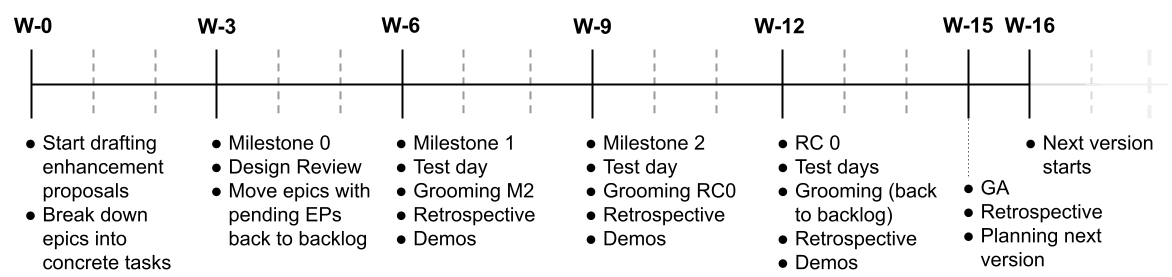
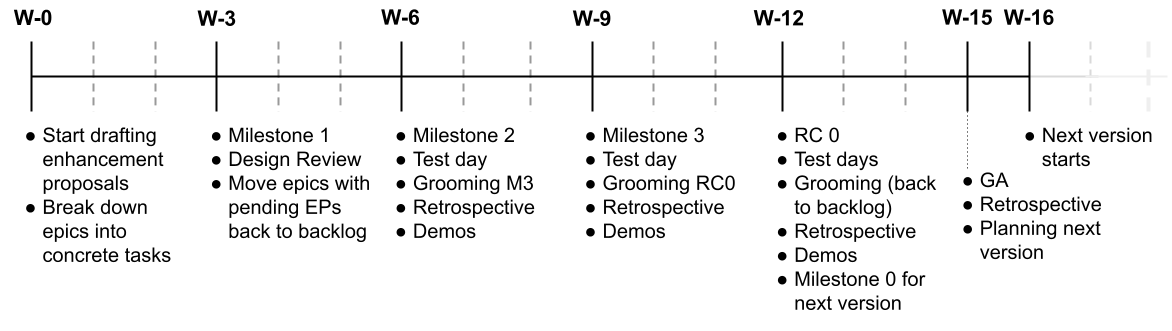
Update planning process
Reflate some changes in the planning meeting and the work with the backlog board.
Update the release timeline image.

Fixes #1043

diff --git a/src/content/development/contribution-guide/_index.en.md b/src/content/development/contribution-guide/_index.en.md
@@ -16,13 +16,13 @@ projects.
 ### Backlog Board
 
 [The backlog board] hosts issues, bugs and features which are not a part of a particular release board. While each issue is opened in
-its corresponding repository, this board gives an aggregated view of all open issues across all repositories. The board has total of seven
+its corresponding repository, this board gives an aggregated view of all open issues across all repositories. The board has total of three
 columns. Any new issues or epics should typically be assigned to the `Backlog` column. Epics which are candidates to be included in
 the next release are moved to the `Next Version Candidate` column. During [planning](#planning), all epics from the `Next
 Version Candidate` column are reviewed and triaged. Epics which are selected to be in the next release are moved to
-the [current release board](#current-release-board). The next 3 columns sort issues by priority. All unassigned issues are sorted into these
-three columns based on the priority discussed in the team meeting. Issues from these columns are ready to be worked on. Any leftover work
-from the previous release goes to the `Work in Progress column`. The `Close?` column holds any issues/epics that can probably be closed for
+the [current release board](#current-release-board). All unassigned issues are labeled with priority based on the priority discussed in
+the team meeting.
+The `Close?` column holds any issues/epics that can probably be closed for
 various reasons.
 
 ### Current Release Board
@@ -143,7 +143,7 @@ Planning meetings will be held, focusing on the [Backlog board].
 In order for a task or an epic to be eligible for the next version, it needs to fulfill these requirements:
 
 * Be part of the [Backlog board].
-* Have a `next-version-candidate` label.
+* Located in the `next-version-candidate` column.
 * Have a description detailing **what** the issue is and optionally **how** it's going to be solved.
 * Have an appropriate sizing label, according to the amount of work expected for a single person to completely deliver the task:
   * *Small*: Work is contained in one sprint and is expected to take less than half the sprint.
@@ -164,12 +164,12 @@ During these meetings, the project team will:
 * Prioritize and assign epics for the next version.
   * Only epics adhering to the described requirements will be considered.
   * Transfer assigned epics to the [release board](#current-release-board) according to the capacity of the team to deliver them.
-  * Remove the `next-version-candidate` label from transferred epics.
 * Re-evaluate the priorities of any *Small* and *Medium* tasks in the backlog.
 * Optionally assign important bugs and tasks and move them to the release board.
 
 By the end of the planning week, the project team will have a backlog of epics and tasks and can commence working on the design phase.
-All epics for the next version will be on the release board, while all *Small* and *Medium* tasks will be left on the backlog board and
+All epics for the next version will be on the release board, along with *Small* and *Medium* tasks with an owner assigned.
+Unassigned tasks will be left on the backlog board and
 worked on based on their priority.
 
 #### Feature Design
@@ -345,7 +345,7 @@ https://github.com/pulls?q=user%3Asubmariner-io+label%3Arelease-note-needed+-lab
 [Tracking Progress on your Project Board]:
 https://docs.github.com/en/issues/organizing-your-work-with-project-boards/tracking-work-with-project-boards
 [The backlog board]: https://github.com/orgs/submariner-io/projects/15
-[the latest board]: https://github.com/orgs/submariner-io/projects?type=classic
+[the latest board]: https://github.com/orgs/submariner-io/projects?query=is%3Aopen
 [enhancements repository]: https://github.com/submariner-io/enhancements
 [Enhancement Request issue]: https://github.com/submariner-io/enhancements/issues/new?assignees=&labels=enhancement&template=enhancement.md
 [The release process documentation]: https://submariner.io/development/release-process/
